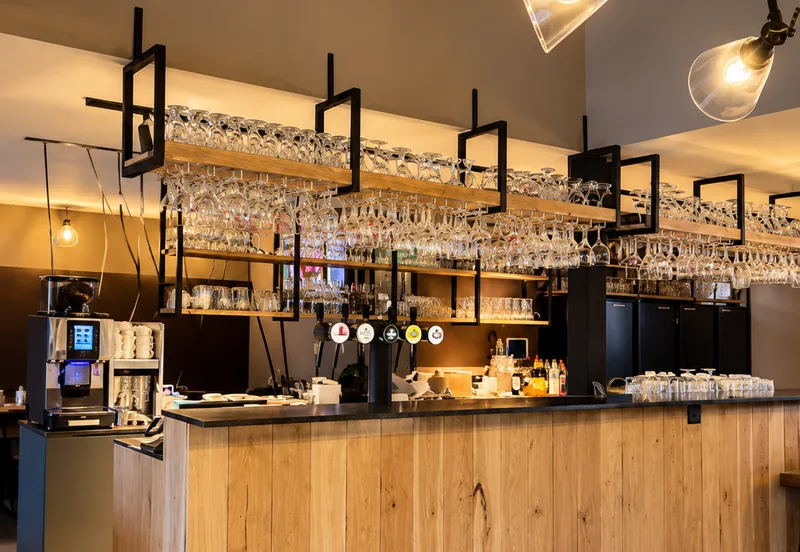
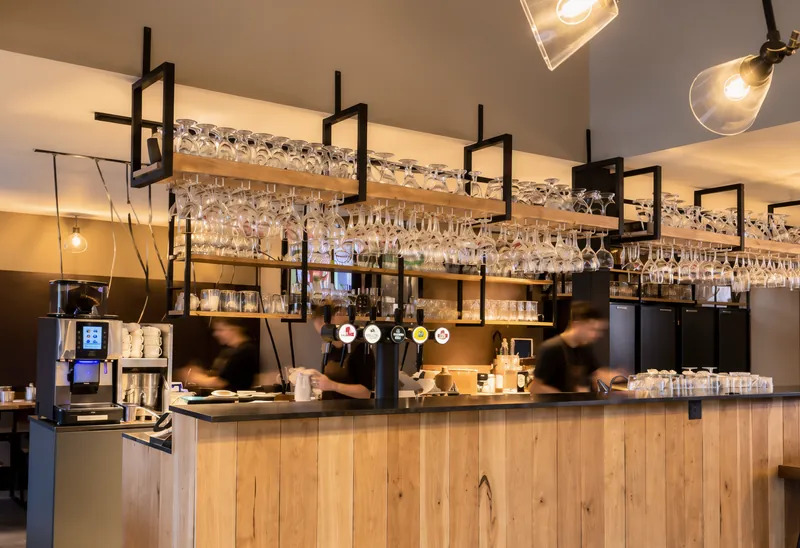
v2.10: nieuwe toogfoto (webp 800–1824 desktop, 480–1080 mobiel), sterkere tekstgloed, oude toog/terras-beelden weg

diff --git a/src/index.css b/src/index.css
@@ -305,13 +305,14 @@ html:not(.anim) .pre { display: none; }
 .full--toog .ph__m img { object-position: 50% 45%; }
 .full--toog .full__c::before {
   content: ''; position: absolute; z-index: -1; left: 0; bottom: 0; width: min(60em, 100%); height: calc(100% + 8em);
-  background: radial-gradient(ellipse 70% 75% at 0% 100%, rgba(18,13,10,.66) 0%, rgba(18,13,10,.38) 45%, rgba(18,13,10,0) 100%);
+  background: radial-gradient(ellipse 75% 80% at 0% 100%, rgba(18,13,10,.78) 0%, rgba(18,13,10,.48) 45%, rgba(18,13,10,0) 100%);
   pointer-events: none;
 }
-.full__slogan { margin: 0; font-size: 1.25em; line-height: 1.3; max-width: 24em; opacity: .92; }
+.full__slogan { margin: 0; font-size: 1.25em; line-height: 1.3; max-width: 24em; opacity: .95; }
+.full--toog .full__c { text-shadow: 0 1px 18px rgba(18,13,10,.35); }
 @media (max-width: 767px) {
   .full--toog .ph__m img { object-position: 50% 60%; }
-  .full--toog .full__c::before { width: 100%; height: calc(100% + 10em); background: linear-gradient(to top, rgba(18,13,10,.7), rgba(18,13,10,.35) 55%, rgba(18,13,10,0)); }
+  .full--toog .full__c::before { width: 100%; height: calc(100% + 10em); background: linear-gradient(to top, rgba(18,13,10,.78), rgba(18,13,10,.42) 55%, rgba(18,13,10,0)); }
   .full__slogan { font-size: 1.0625em; }
 }
 

diff --git a/src/App.tsx b/src/App.tsx
@@ -84,9 +84,8 @@ const IMG: Record<string, { w: number[]; alt: string }> = {
   uithangbord: { w: [480, 800, 1086], alt: 'Uithangbord van taverne ’t Peerdeke met de paardenkop' },
   wafels: { w: [480, 800, 1086], alt: 'Twee Brusselse wafels met poedersuiker, vanille-ijs en slagroom' },
   interieur: { w: [480, 800, 1448], alt: 'Interieur met lederen stoelen, houten tafels en grote ramen naar het plein' },
-  terras: { w: [480, 800, 1156], alt: 'Gasten op het terras in Het Pand onder de parasols' },
-  toog: { w: [480, 800], alt: 'Houten toog met biertap en glazenrekken' },
-  'toog-l': { w: [800, 1086, 1600], alt: 'De houten toog van ’t Peerdeke met biertap, koffiemachine en rekken vol glazen' },
+  toog: { w: [480, 800, 1080], alt: 'Houten toog van ’t Peerdeke met biertap, rekken vol glazen en hanglampen' },
+  'toog-l': { w: [800, 1280, 1824], alt: 'De houten toog van ’t Peerdeke met biertap, koffiemachine en rekken vol glazen' },
 };
 const srcSet = (n: string) => IMG[n].w.map((w) => `/img/${n}-${w}.webp ${w}w`).join(', ');
 const src = (n: string) => `/img/${n}-${IMG[n].w[IMG[n].w.length - 1]}.webp`;

diff --git a/src/motion.ts b/src/motion.ts
@@ -155,8 +155,10 @@ export function initMotion(): () => void {
     gsap.utils.toArray('[data-parallax]').forEach((el: Element) => {
       const media = el.querySelector('.ph__m');
       if (!media) return;
-      gsap.fromTo(media, { yPercent: -8, scale: 1.15 }, {
-        yPercent: 8, scale: 1.15, ease: 'none',
+      // Toog-foto is max. 1824 px breed: geen extra zoom, zodat ze ook op brede schermen scherp blijft
+      const s = el.closest('.full--toog') ? 1.02 : 1.15;
+      gsap.fromTo(media, { yPercent: -8, scale: s }, {
+        yPercent: 8, scale: s, ease: 'none',
         scrollTrigger: { trigger: el, start: 'top bottom', end: 'bottom top', scrub: true },
       });
     });
